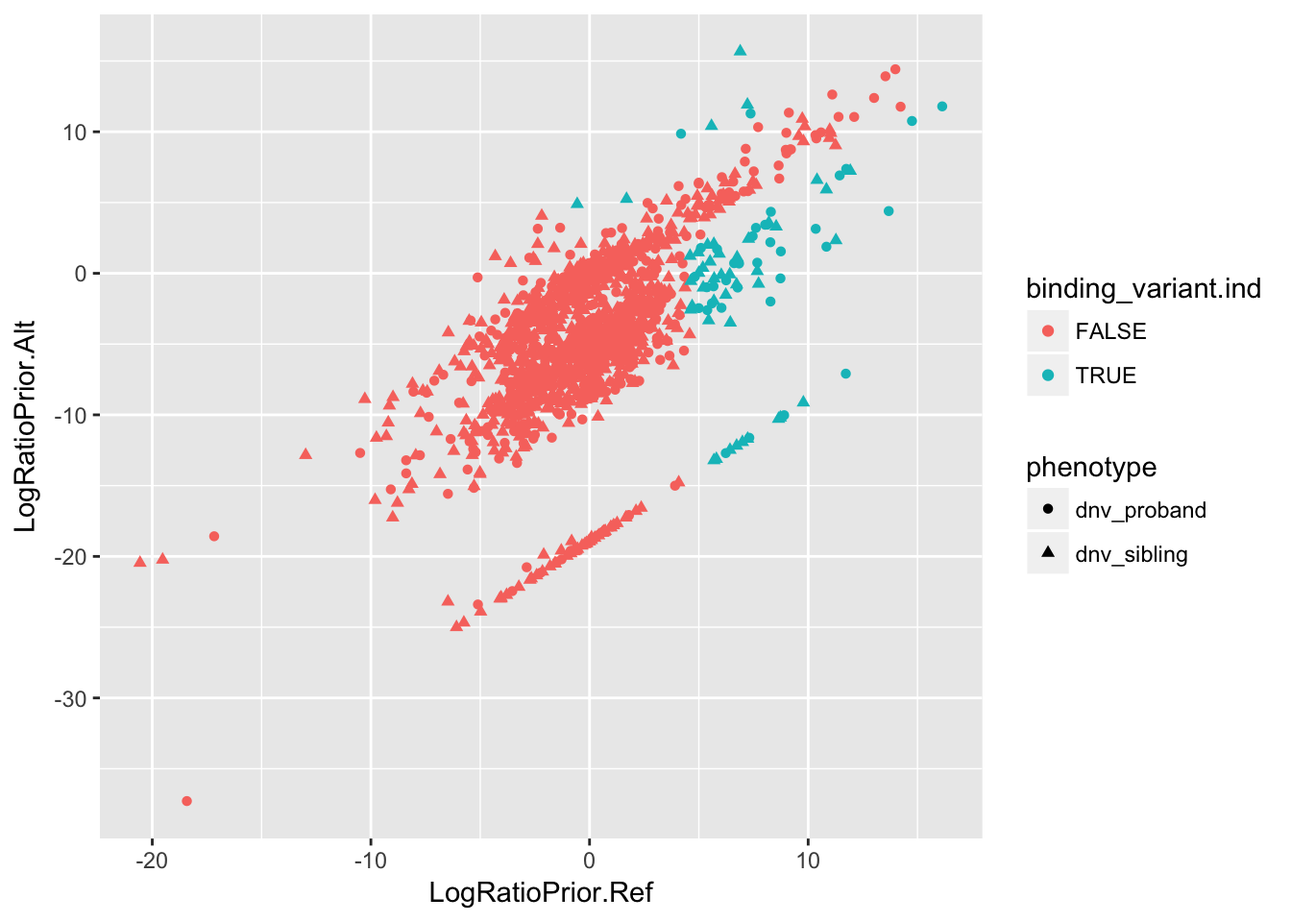
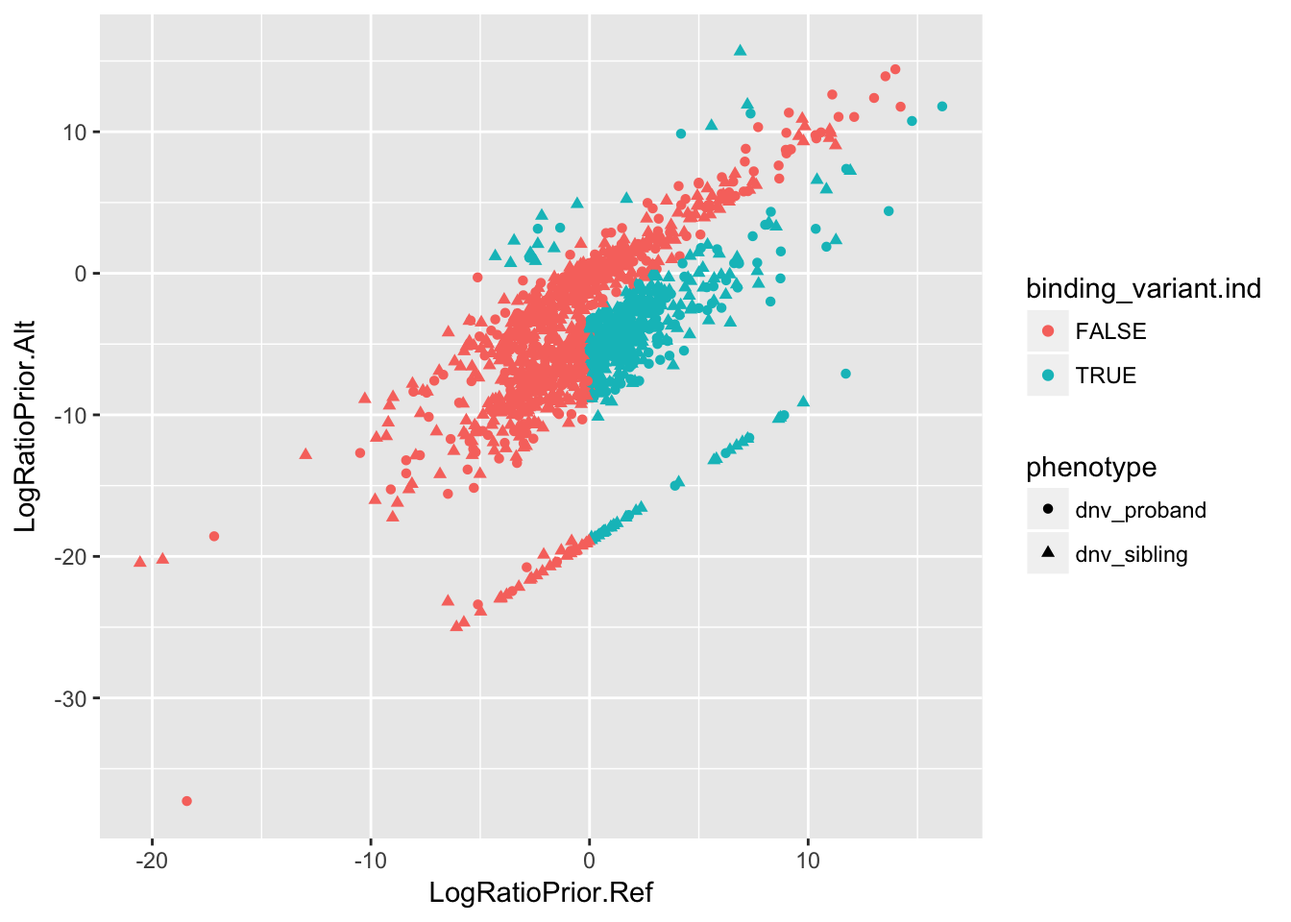
updated

diff --git a/docs/footprint_snp_strategy1.html b/docs/footprint_snp_strategy1.html
@@ -361,7 +361,7 @@ pre code, pre, code {
 <pre class="r"><code>mydata.ag &lt;- c()
 for(i in unique(mydata$SNP.ID)){
     temp &lt;- mydata[mydata$SNP.ID == i,]
-    bind_prior &lt;- pmax(temp$LogRatioPrior.Ref, temp$LogRatioPrior.Alt) &gt; log(0.99/0.01)
+    bind_prior &lt;- pmax(temp$LogRatioPrior.Ref, temp$LogRatioPrior.Alt) &gt; log(0.5/0.5)
     fold_change &lt;- abs(temp$LogRatioPrior.Ref - temp$LogRatioPrior.Alt) &gt; log(20)
     both &lt;- sum(bind_prior &amp; fold_change)
     if(both == 0){
@@ -421,15 +421,15 @@ pander(test_result)</code></pre>
 <tbody>
 <tr class="odd">
 <td align="center"><strong>binding.variant</strong></td>
-<td align="center">36</td>
-<td align="center">44</td>
-<td align="center">0.274</td>
+<td align="center">210</td>
+<td align="center">349</td>
+<td align="center">0.9593</td>
 </tr>
 <tr class="even">
 <td align="center"><strong>footprint.snp</strong></td>
-<td align="center">495</td>
-<td align="center">852</td>
-<td align="center">0.9995</td>
+<td align="center">321</td>
+<td align="center">547</td>
+<td align="center">0.9939</td>
 </tr>
 </tbody>
 </table>
@@ -440,92 +440,264 @@ pander(test_result)</code></pre>
 <h2>Proband</h2>
 <pre class="r"><code>cols &lt;- c(&#39;SNP.ID&#39;,&#39;Motif.ID&#39;, &#39;Relative.Pos&#39;, &#39;entropy&#39;, &#39;ref&#39;, &#39;alt&#39;, &#39;LogRatioPrior.Ref&#39;, &#39;LogRatioPrior.Alt&#39;)
 mydata.ag[mydata.ag$binding_variant.ind &amp; mydata.ag$phenotype == &#39;dnv_proband&#39;, cols]</code></pre>
-<pre><code>##      SNP.ID Motif.ID Relative.Pos   entropy ref alt LogRatioPrior.Ref LogRatioPrior.Alt
-## 30     1355   M00084           28 1.8771639   C   T          6.034927        -2.4385871
-## 56     3603   M01714           12 1.7461780   C   T          5.671023        -0.9201730
-## 143    9218   M00084           21 0.8689223   G   C          4.183780         9.8614439
-## 194   12261   M00084           21 0.8689223   A   G          7.366078        11.2888553
-## 203   13385   M01925           21 1.9582373   G   A          6.774377        -1.0061039
-## 237   14283   M00084           25 1.5871104   G   A          4.996710        -2.4600265
-## 251   14881   M01509           16 1.5343766   G   A          7.611410         3.2110777
-## 9226  17685   M00807            2 1.6670044   G   A          8.270070         2.1939433
-## 288   18010   M00797            5 0.5165080   G   A          4.816206        -0.2390860
-## 345   20506   M00280            7 1.9400879   G   A          5.597880        -2.1251344
-## 6355   4139   M01961            7 1.9881729   C   G          6.231948       -12.7022057
-## 3210   9149   M01303            6 1.9999359   C   T          7.307715       -11.6192220
-## 1190  11320  PBM0203           15 1.8111229   G   A          6.613514         0.7139703
-## 1269  14685   M01068            9 1.9405353   G   A         10.834427         1.8792256
-## 3376  16768   M01303            8 1.5985656   G   A         14.748282        10.7620738
-## 3379  17077   M01303            6 1.9999359   C   A          8.902000       -10.0249373
-## 2089   1573   M01118           11 1.9243168   C   T          8.733199        -0.3576012
-## 2162   7501   M00766           17 1.2845076   G   A          5.834107         1.7018385
-## 3034   1514   M01335            5 0.8814204   T   A          8.031602         3.4294305
-## 3061   2093   M01303           13 1.4433938   C   G         11.440425         6.9144941
-## 3079   3404   M01532           39 0.7247598   A   G         16.131375        11.7933100
-## 3086   3960   M01122            9 1.1532701   C   A          8.293577         4.3463969
-## 7602   4789   M01219            7 0.9358663   G   A          7.462182         2.6228604
-## 3232  10322   M00008            6 1.8103056   G   A          6.839688         0.6913610
-## 3242  10886   M01068           14 1.8937655   G   A          7.671307         0.7505114
-## 3261  11879   M00404            8 1.8474190   T   G          6.247738        -0.4962465
-## 3315  14071   M00451           30 1.6452066   A   G          8.128684         3.4388537
-## 3383  17227   M01597           11 1.9360126   G   C          8.276714        -1.9925463
-## 3408  18436   M01118           11 1.9243168   C   G          5.386178        -2.6008755
-## 3413  18969   M00451           24 1.4826539   A   G         11.741829         7.3786814
-## 7492   1313   M01837           10 0.8692086   T   A          5.360720        -0.9848862
-## 7502   1498   M01504            9 1.4060160   T   C          8.750713         1.5478762
-## 7547   2597   M01504            9 1.4060160   A   G         10.346013         3.1431760
-## 7599   4689   M01504           11 1.8477507   T   G         13.684103         4.3974496
-## 7728   9652   M00078           17 0.8920722   A   C          5.094875         1.7932938
-## 7925  19093   M01532           33 1.5969361   A   T         11.722000        -7.0900685</code></pre>
+<pre><code>##       SNP.ID Motif.ID Relative.Pos   entropy ref alt LogRatioPrior.Ref LogRatioPrior.Alt
+## 2999       3   M00008            2 1.8547063   G   T       3.904934527       -3.60183348
+## 4         92   M01948            6 1.5400790   C   G       2.271950698       -4.26530033
+## 6        215  PBM0105           14 1.1974766   C   T       1.074457050       -3.25840529
+## 11       415   M00940            9 1.6389136   G   A       2.432171754       -2.46090454
+## 12       539   M01620            3 1.6529836   C   T       0.920390095       -3.64463566
+## 4278     575   M01958            3 1.6908259   T   A       0.245728943       -8.10140005
+## 4285     576   M01958            4 1.9852075   C   A       0.245728943      -18.68507783
+## 25      1166   M00920            6 1.6484992   C   T       3.014032795       -2.58188463
+## 3028    1347   M00939            7 1.6873117   C   T       0.545454359       -4.43305748
+## 30      1355   M00084           28 1.8771639   C   T       6.034927400       -2.43858713
+## 32      1517   M01620            2 1.5883750   G   A       0.920390095       -3.28231011
+## 38      1898   M00032            2 1.6876641   A   G       1.050878845       -3.55156652
+## 1078    2232   M00920            4 0.7143480   G   A       3.505724978       -1.45014761
+## 7550    2694   M00106            6 1.7249764   G   A       0.849335048       -4.92590844
+## 53      3235   M01634            7 1.9833993   G   C       1.873775782       -7.47153313
+## 56      3603   M01714           12 1.7461780   C   T       5.671022506       -0.92017296
+## 75      4587   M00065           12 1.9677110   C   A       0.171981829       -8.05125711
+## 76      4651   M01613            3 1.4903221   G   A       0.086115597       -4.25651260
+## 84      5426   M01620            5 1.5458622   A   G       0.920390095       -3.75940490
+## 85      5835   M01635            8 1.5336647   C   T       0.799490548       -3.81021030
+## 4378    6628 MA0048.1           10 0.9842440   C   A       0.361098854       -7.88729491
+## 94      6851   M00918            3 1.7441102   A   G       2.127590764       -3.86819007
+## 3132    6873   M01917           10 1.7106621   T   C       0.519089302       -4.55787501
+## 99      6996   M01259           26 0.9449232   G   C       3.657230992       -5.81699938
+## 102     7298   M00654            6 1.2369149   G   A       3.144355058       -2.10513146
+## 105     7481   M00694            9 1.9338709   G   C       1.238474518       -5.74588624
+## 106     7571   M01544           10 1.4975287   C   T       1.183762053       -3.97526245
+## 3185    8324   M00920            3 0.3738250   G   A       1.760017285       -2.80401838
+## 111     8338   M00973            8 0.9906366   G   C       1.022859379       -5.51731741
+## 113     8402   M01962            3 0.8148487   C   T       3.261506321       -1.75455704
+## 3190    8416   M00008           11 0.6297062   T   G       2.873668419       -2.12088677
+## 117     8458   M01700            6 1.6868658   G   C       0.972313756       -5.61238976
+## 119     8743   M00740            7 1.6237796   G   A       0.875174372       -3.77643278
+## 143     9218   M00084           21 0.8689223   G   C       4.183780385        9.86144390
+## 148     9495   M01700            5 1.5280561   T   C       1.334042381       -5.42713752
+## 155    10579 MA0100.1            6 1.5370451   G   A       1.246692046       -3.49346335
+## 1180   10945   M01966            6 1.8713435   C   T       2.139588321       -3.64911349
+## 163    11269   M02011            8 1.6705455   C   T       3.511938825       -1.73137992
+## 166    11382   M00084           28 1.8771639   G   A       1.834131579       -6.63938295
+## 175    11522   M01909            5 1.7448755   C   T       0.169704003       -4.81445882
+## 178    11541   M00514            3 0.5745764   C   T       1.776869760       -4.39249908
+## 193    12169   M01610            3 1.7009062   G   A       1.661664803       -4.30407115
+## 194    12261   M00084           21 0.8689223   A   G       7.366078345       11.28885527
+## 197    12636   M00084           28 1.8771639   G   C       0.718514725       -7.75499980
+## 200    13078   M02011            9 1.0122430   C   T       2.696449523       -5.59180262
+## 201    13115   M01742            5 1.7958965   C   T       3.256175301       -1.83723848
+## 203    13385   M01925           21 1.9582373   G   A       6.774377399       -1.00610390
+## 205    13453   M00696            5 1.9008127   T   C       1.099948651       -5.57287791
+## 224    13641   M00178            5 1.9438236   A   G       1.701079710       -6.03385888
+## 234    13985   M01948            6 1.5400790   G   A       2.190745926       -2.00367474
+## 237    14283   M00084           25 1.5871104   G   A       4.996709757       -2.46002650
+## 240    14297   M00375            7 1.8881747   G   C       0.762052648       -8.36005046
+## 241    14351   M01639            5 1.7247818   G   A       1.452007580       -3.65299773
+## 244    14513   M01992            4 1.7486101   C   T       2.737168755       -3.66914840
+## 1272   14881   M01629            9 1.6831951   G   A       2.705732299       -2.44552657
+## 2272   14941   M01634            6 1.7542856   G   A       1.042045746       -4.82900181
+## 254    15306   M01182            6 1.6849318   C   T       1.001808843       -4.79874229
+## 264    15831   M01610            6 1.9055889   T   C       0.804049647       -5.54934587
+## 265    15954   M01620            2 1.5883750   G   A       0.403903255       -3.79879695
+## 274    17281   M02011            3 0.8984842   G   A       3.186908067       -2.60158817
+## 275    17351   M01916            4 1.7967726   C   G       1.889391526       -5.89549974
+## 6604   17685   M01961            9 1.7648724   G   A       2.100965743       -6.14162903
+## 289    18010   M01182            4 1.8693197   G   A       1.526152167       -5.56770814
+## 291    18133   M00778            6 1.4375781   C   G       1.785082401       -3.85485320
+## 294    18568   M01639            6 1.5543703   G   C       1.757789516       -3.68915088
+## 3411   18585   M00322            2 1.6220678   G   A       0.559691009       -4.74862711
+## 299    19004   M00281            3 1.4356691   G   T       1.365437972       -7.48674820
+## 310    19196 MA0004.1            6 1.9999359   T   C       0.672271169      -18.26337956
+## 321    19204   M00428            8 1.5928724   C   T       0.872744278       -4.49713668
+## 326    19508   M01636            5 1.6336137   G   A       0.632175857       -4.17381250
+## 327    19530   M01620            2 1.5883750   C   T       0.920390095       -3.28231011
+## 2343   19862   M00916            8 1.7434218   C   G       0.620636374      -18.25135017
+## 3451   20158  PBM0023           11 1.6037614   C   T       4.336419878       -0.23306149
+## 341    20273   M01699            5 1.8611434   G   A       0.419795593       -8.31975596
+## 345    20506   M00280            7 1.9400879   G   A       5.597880224       -2.12513437
+## 1075    2025   M01951            6 1.6914711   C   T       1.099764809       -4.07265612
+## 1085    2860   M00270            7 1.1686189   C   T       0.347613807       -3.50708122
+## 1087    3426   M00041            5 1.9417858   G   A       2.271974478       -7.59511894
+## 6355    4139   M01961            7 1.9881729   C   G       6.231948016      -12.70220568
+## 3149    7141   M01843            7 1.6016491   C   T       1.173643335       -3.36116123
+## 1152    8580  PBM0203           13 1.7928550   C   T       3.723994972       -1.45988261
+## 3210    9149   M01303            6 1.9999359   C   T       7.307715213      -11.61922196
+## 1177   10369   M00263            6 1.6671729   C   T       0.499291554       -5.15499493
+## 1190   11320  PBM0203           15 1.8111229   G   A       6.613514096        0.71397028
+## 1217   12228   M00752            8 0.9542194   C   T       0.460688643       -6.70706141
+## 1219   12265   M00752            6 1.8129358   C   T       0.698521101       -5.63850267
+## 1220   12287   M01839            4 1.9238942   C   T       3.231939888       -6.11496829
+## 1269   14685   M01068            9 1.9405353   G   A      10.834427187        1.87922559
+## 3376   16768   M01303            8 1.5985656   G   A      14.748281710       10.76207382
+## 3379   17077   M01303            6 1.9999359   C   A       8.901999853      -10.02493732
+## 1302   17097   M01962            9 1.5894463   G   A       2.305017980       -2.73634719
+## 7917   18574   M00986            3 1.9872578   C   T       4.319829556       -5.46328397
+## 1356   19452   M00263            5 1.5983625   G   A       0.575600209       -4.65198687
+## 1360   19702   M01962            9 1.5894463   C   T       3.261506321       -1.77985885
+## 1361   19703   M01620            3 1.6529836   C   T       0.403903255       -4.16112250
+## 10290  19770   M01639            3 1.7230140   A   T       1.452007580       -5.28613529
+## 2089    1573   M01118           11 1.9243168   C   T       8.733199477       -0.35760118
+## 7561    3291   M00050            7 1.7493308   C   T       1.117650979       -4.16911602
+## 2128    4693   M00694            2 0.7954746   C   T       2.202009465       -2.45806816
+## 2162    7501   M00766           17 1.2845076   G   A       5.834107077        1.70183846
+## 2197    9449  PBM0095            9 1.9270336   C   T       3.106193495       -4.99194711
+## 2203    9670 MA0119.1            4 1.9807962   G   A       2.713781554       -6.38901295
+## 2214   10605   M01634            6 1.7542856   G   C       1.991528790       -6.31036716
+## 2225   11543   M00666           10 1.8117256   A   T       0.966035828       -7.66215374
+## 2254   14051   M01162            5 1.7385343   A   C       1.795803293      -17.07454907
+## 2278   15792   M01639            6 1.5543703   G   A       0.846086791       -3.77887068
+## 2290   16165   M01511            3 1.1546936   G   A       2.953528988       -0.07123798
+## 3359   16182   M01699            5 1.8611434   G   A       0.419795593       -8.31975596
+## 2324   19150   M01924            7 1.6279479   C   A       3.081515771       -4.56932746
+## 2336   19509 MA0093.1            5 1.8465935   C   T       0.305305439       -5.56035064
+## 2352   20234   M00615           14 1.9999359   C   T       1.024611251      -17.90232592
+## 3003     218   M01840            3 1.5151884   G   A      -1.343961099        3.21917482
+## 3009     650   M00263            6 1.6671729   G   A       0.009995807       -5.64429068
+## 3034    1514   M01335            5 0.8814204   T   A       8.031601634        3.42943053
+## 3038    1549   M01951            3 1.8101627   C   T       0.665999180       -5.04525100
+## 12269   2093   M00491           11 1.8493940   C   G       3.197801501       -3.75947558
+## 3079    3404   M01532           39 0.7247598   A   G      16.131375078       11.79331001
+## 3086    3960   M01122            9 1.1532701   C   A       8.293577081        4.34639687
+## 7602    4789   M01219            7 0.9358663   G   A       7.462182271        2.62286039
+## 4369    5644   M00178            6 1.9036959   G   A       0.672843489       -6.50734345
+## 3116    5718   M01610            8 1.6536510   G   A       0.946561195       -3.24734876
+## 3118    5753   M00064           11 1.3413192   C   T       2.913993566       -2.57064554
+## 3120    5931   M01162            3 1.9456752   T   G       1.795803293      -17.13089472
+## 3134    6914   M00649            2 1.7909103   G   A       3.045992144       -3.22645162
+## 3180    7677   M01815            8 1.5951259   G   A       1.422631207       -2.85089724
+##  [ reached getOption(&quot;max.print&quot;) -- omitted 85 rows ]</code></pre>
 </div>
 <div id="sibling" class="section level2">
 <h2>Sibling</h2>
 <pre class="r"><code>mydata.ag[mydata.ag$binding_variant.ind &amp; mydata.ag$phenotype == &#39;dnv_sibling&#39;, cols]</code></pre>
 <pre><code>##       SNP.ID Motif.ID Relative.Pos   entropy ref alt LogRatioPrior.Ref LogRatioPrior.Alt
-## 351    20979   M01714            5 0.4630280   G   A         5.3972527        2.00853666
-## 1467   24541   M01068           12 1.9639209   C   A         8.7263856      -10.19505921
-## 462    25101   M01175           10 1.8230149   C   A         5.6884407      -13.21316114
-## 473    25238   M00084           28 1.8771639   G   A         7.7309105       -0.74260401
-## 5848   26862   M00244            6 1.7464740   A   G        -0.5643192        4.88896990
-## 531    27230   M00084           22 1.1181328   C   G         8.5363565        3.29979736
-## 1616   30714 MA0162.1            5 1.8737468   C   T         6.7292694      -12.18480984
-## 611    31352   M01925           22 1.9380524   C   T         6.8924844       15.66934696
-## 8779   44583   M01118            3 1.9361772   G   A         5.8024781      -13.11939394
-## 10942  46710   M01820            2 1.4564349   C   T         1.6920131        5.24842472
-## 1408   21650   M01068            8 1.9361285   C   T        11.2694179        2.33235766
-## 1554   27038   M01068            3 1.0236657   C   G        10.4044718        6.59315137
-## 1565   28448   M00114           12 1.4894717   C   T         5.1839671        0.37874094
-## 9534   30569   M01925           22 1.9380524   T   C         5.4499417       -3.32692084
-## 1738   35116   M01068            3 1.0236657   G   A        10.8344272        5.91868201
-## 3959   36228   M01597            6 1.9999359   G   A         8.6449153      -10.28782915
-## 11442  22374   M01564           11 1.4287563   G   A         4.9686300        1.47350103
-## 3572   23706   M00451           28 1.7027981   G   A        11.9266853        7.23450248
-## 3601   24633   M00008            6 1.8103056   C   T         6.0256391       -0.12268794
-## 8158   25158  PBM0203            9 1.2627148   C   T         5.6868853        2.06765993
-## 3654   25801   M01104            8 1.8823280   G   A         6.4246924      -12.47778534
-## 6856   26395   M01961            8 1.6581801   C   G         6.2319480       -1.52381533
-## 3706   28067   M01737            7 1.5454389   A   G         5.9336054        1.38047570
-## 3707   28250   M01219            6 1.8996402   C   T         7.6723014        0.15009043
-## 3727   29114   M01068            7 1.9575122   C   G         6.9929989      -11.92802334
-## 3736   29461   M00451           30 1.6452066   G   A         7.2218366       11.91166657
-## 3776   30620   M01303            6 1.9999359   G   T         7.2316086      -11.69532858
-## 3857   33242   M01068           15 0.6675571   T   C         5.5775884       10.40447180
-## 4091   38827   M01104            3 1.5658410   G   A         4.6312696       -0.54686068
-## 4148   41701   M01175           10 1.8230149   G   C         5.6884407       -1.95770099
-## 4166   42394   M01219            7 0.9358663   G   A         7.2710774        2.43175556
-## 4170   42561   M01118            9 1.8782834   G   A         5.1992335       -1.01434411
-## 4201   44121   M01256           18 0.5929753   C   A         4.5989786        1.22788163
-## 4229   45941   M01303           12 1.9199620   G   A         9.7801384       -9.13247926
-## 5353   46911   M00451           28 1.7027981   C   T         5.5138801        0.82169723
-## 5854   27900   M01961            6 1.9882944   G   A         6.4388522       -3.48964764
-## 8053   23023   M01124           16 1.1631984   A   G         5.7004862       -0.37419550
-## 8100   24552   M00008            2 1.8547063   C   T         6.7255627       -0.79034088
-## 8347   30856   M01593            2 0.8084927   C   T         8.2008392        3.56976522
-## 8421   32796   M00321           18 0.8307730   G   T         6.7495294        1.12254233
-## 8615   38341   M01219           11 1.7984264   C   A         6.4137547       -0.07949471
-## 8818   46402   M01219           12 1.7796207   C   A         4.6237097       -2.56895954
-## 9888   43919   M00717            3 1.1676382   A   G         4.9978034        0.02782553
-## 14710  31084   M01714            9 1.8125349   C   A         4.6931249       -2.32452541</code></pre>
+## 351    20979   M01714            5 0.4630280   G   A       5.397252746        2.00853666
+## 357    21184   M01820           10 0.6054744   G   A       4.169804327       -2.25357435
+## 5704   21269   M01114            2 0.4420999   G   C       0.333471571       -4.03482372
+## 8008   21394   M01699            5 1.8611434   G   A       0.380340749       -8.35921080
+## 370    22160 MA0018.2            6 1.9373639   G   A       0.590358863      -18.33256518
+## 379    22298   M00739            8 1.4532661   G   A       2.700840777       -1.92522826
+## 382    22614 MA0007.1            6 1.6128350   G   C       0.369895992       -7.66005187
+## 399    23092   M01610            9 1.7805757   A   G       1.661664803       -4.68639643
+## 408    23660   M01660            7 1.7718871   C   T       2.023278879       -4.73751755
+## 421    24064   M01839            4 1.9238942   G   C       1.937691081       -6.38544273
+## 426    24475   M01002           10 1.0135533   C   T       2.823644234       -0.87110432
+## 1467   24541   M01068           12 1.9639209   C   A       8.726385639      -10.19505921
+## 450    24798   M00799            4 1.8191079   G   A       0.210124625       -5.27235088
+## 462    25101   M01175           10 1.8230149   C   A       5.688440712      -13.21316114
+## 465    25197   M02011           10 1.7606276   C   G       1.428890473       -4.96272637
+## 472    25215   M01700            5 1.5280561   A   G       0.972313756       -5.78886615
+## 473    25238   M00084           28 1.8771639   G   A       7.730910512       -0.74260401
+## 480    25574   M02011            4 0.9091180   C   T       2.979463584       -2.35569787
+## 486    25588   M00303           11 1.6003465   C   T      -2.707345230        1.42988220
+## 8171   25725 MA0057.1            5 1.9024510   C   G       0.923271662       -7.69672601
+## 489    25782   M01700            6 1.6868658   G   A       0.610585130       -4.28325757
+## 8192   26167   M01516            9 1.8167847   C   T       3.289361621       -2.27186819
+## 501    26302   M00986            5 1.9631813   G   A       2.076583710       -7.64667817
+## 502    26462   M00491           11 1.8493940   C   A       1.420530909       -6.53867394
+## 3677   26796   M01852            5 1.4964682   C   T       0.477494190       -3.18454452
+## 5848   26862   M00244            6 1.7464740   A   G      -0.564319247        4.88896990
+## 2529   27162  PBM0085           11 1.6390400   C   T       3.429858004       -1.25192715
+## 531    27230   M00084           22 1.1181328   C   G       8.536356547        3.29979736
+## 545    28480   M01681            3 1.7367584   G   A       0.486273731       -5.53994659
+## 548    28744   M01649            7 1.6085919   C   T       2.165605875       -2.48743329
+## 550    28793   M01636            2 1.7448648   C   T       1.264769522       -4.62444823
+## 1576   28853   M01629           10 1.5227733   G   A       2.784371876       -2.06982194
+## 3725   29024   M00322            7 1.8140017   G   C       2.148894337       -4.89290550
+## 563    29187   M01610            7 1.4776106   T   C      -3.612136061        0.71874717
+## 564    29236   M01610            7 1.4776106   G   A       1.661664803       -2.66921843
+## 566    29303   M01700            6 1.6868658   C   A       1.334042381       -7.05480157
+## 568    29416   M00008            8 1.8979354   G   A       3.523145206       -4.73628897
+## 569    29737   M00797            5 0.5165080   G   A       3.006963153       -2.04832867
+## 570    29739   M02040            7 1.7979475   G   A      -4.312773323        1.20337875
+## 571    29896 MA0059.1            4 0.6706922   G   A       2.139361543       -0.86806002
+## 2563   30063   M01925           26 1.7805112   C   T       2.326240542       -3.29000241
+## 10520  30065 MA0028.1            5 1.7453951   C   A       1.906634114       -4.13245520
+## 579    30133   M00001           13 1.1349365   C   T       0.804134749       -2.53025708
+## 580    30274   M00696            5 1.9008127   A   C       1.262226971       -7.70412314
+## 8330   30389   M00050            8 1.6376092   G   C       1.589722662       -5.58029672
+## 1616   30714 MA0162.1            5 1.8737468   C   T       6.729269430      -12.18480984
+## 592    30744  PBM0079            3 1.2469604   C   A       2.719462455       -2.30273006
+## 595    30801   M01681            2 1.5534993   G   A       0.044243184       -5.27472497
+## 597    30934   M00940            3 1.6672371   T   A       4.079050660      -14.77986091
+## 601    30996   M01613            3 1.4903221   G   C       0.009580789       -5.17460202
+## 605    31050   M01639            3 1.7230140   T   A       0.846086791       -5.89205608
+## 611    31352   M01925           22 1.9380524   C   T       6.892484405       15.66934696
+## 614    31354 MA0006.1            3 1.8211156   G   A       0.083563328       -6.43530951
+## 615    31434   M01840            6 1.0986028   A   G      -2.186000006        4.05956633
+## 616    31463   M00694           10 1.7339782   T   G       1.706466769       -5.29347736
+## 617    31478 MA0004.1            6 1.9999359   A   C       0.720295075      -18.21535565
+## 631    31641   M01958            5 1.7871205   C   T       0.143872664       -5.32932829
+## 637    31925   M00696            5 1.9008127   T   C       1.099948651       -5.57287791
+## 643    32283   M01649            7 1.6085919   C   T       1.622578029       -3.03046114
+## 9590   32330   M01925           26 1.7805112   C   T       0.960963314       -4.65527963
+## 647    32415  PBM0104           12 1.6007188   G   A       1.569025989       -4.69680278
+## 650    32503   M01933            9 1.4073608   T   C       1.837381216       -1.80201260
+## 655    32696   M00797            2 1.0318621   C   T       3.283594131       -1.12524205
+## 659    32798   M01509            4 1.2999744   C   A       0.998552108       -5.55491442
+## 665    33271   M01649            2 1.3924307   C   G       2.975273372       -2.58561438
+## 682    33998 MA0004.1            7 1.9999359   G   C       0.672271169      -18.26337956
+## 698    34663   M02011            7 1.5687348   C   T       3.186908067       -1.89074679
+## 699    34807   M00697            3 0.6728807   C   T      -2.568708875        1.06911225
+## 700    34812   M00375            6 1.7925935   C   T       0.772742798       -4.85029083
+## 703    34940   M00428            7 1.6800499   C   T       0.782524645       -4.83362459
+## 704    34974   M01700            3 1.9999359   G   A       0.241390902      -18.69425983
+## 705    35045   M01607            3 1.8033302   A   G       1.616177901       -3.64395732
+## 707    35055   M00428            5 0.8655381   C   T       1.568009618       -3.87405365
+## 2691   35088 MA0119.1            7 1.0863280   A   G       3.741964788       -3.70109016
+## 713    35308   M00696            7 1.9107079   A   G       1.262226971       -6.12782409
+## 716    35361   M00654           10 1.1235464   C   T       1.834530019       -1.99927964
+## 717    35422   M01700            4 1.6015170   C   T       0.241390902       -5.08224062
+## 719    35534   M01182            3 1.5462553   G   A       1.001808843       -3.29232638
+## 722    35697   M01620            3 1.6529836   C   T       0.920390095       -3.64463566
+## 737    36032   M01962            9 1.5894463   C   T       2.677829162       -2.36353601
+## 741    36211   M00940            8 1.7075353   G   A       2.143656324       -2.67651303
+## 11873  36323  PBM0118            5 1.7223254   G   A       0.569409408       -7.40248571
+## 764    36451   M01673            6 1.6057094   G   T       0.525406036       -4.92601762
+## 767    36609   M01620            2 1.5883750   C   T       0.089574012       -4.11312619
+## 768    36652 MA0059.1            8 1.6404862   C   T       1.252583520       -3.46651858
+## 2760   37165   M01818            9 1.2592240   C   T       1.282458584       -2.80869071
+## 804    37791   M01648            5 1.8803413   G   A       0.311801455       -6.67540966
+## 812    38007   M01259           25 1.3720806   G   A       1.813055212       -2.70721105
+## 7221   38277   M01959            6 1.7752191   T   C       0.722147727       -5.44480178
+## 834    38380 MA0018.2            6 1.9373639   C   T       1.662679205      -17.26024484
+## 859    38550   M00697            4 0.7433201   G   C       1.651708762       -2.60829148
+## 862    38564 MA0117.1            8 1.5566592   G   A       1.334145862       -2.99642207
+## 864    38746   M01220            4 0.8395244   A   T       2.231546923       -2.60655853
+## 866    39132   M00697           11 1.4491931   G   A       0.960999486       -3.14338467
+## 874    40012   M01700            4 1.6015170   G   C       0.241390902       -5.33512851
+## 876    40133   M01613            7 1.8267406   C   G       0.136118415       -7.05008720
+## 888    40293   M00428            8 1.5928724   G   A       1.207758960       -4.16212200
+## 892    40391   M01636            5 1.6336137   G   A       0.624697886       -4.18129047
+## 893    40628   M01700            2 1.8252550   C   T       0.972313756      -17.93065577
+## 894    40636 MA0059.1           10 1.8947861   G   A       2.411935738       -4.48412554
+## 895    40769   M01613            3 1.4903221   C   T       1.168514011       -3.17411419
+## 896    40877  PBM0097            4 1.6631588   G   A       0.804750871       -4.89017929
+## 900    41312   M01852            4 1.5970799   G   A       0.126028624       -4.54634317
+## 2888   41487   M01243           13 1.7364511   G   A       2.466554033       -6.14772405
+## 4139   41650   M00008            7 1.5053237   C   T       3.090885557       -0.24291143
+## 906    41664   M01840           10 0.7020407   G   T       0.072449511       -4.24903434
+## 908    41685   M00491            5 1.4695507   G   A       4.370309006       -1.00318424
+## 911    41694   M00491           11 1.8493940   G   A       2.406952762       -5.14935269
+## 914    41779   M01111            8 1.4180792   G   C       0.463086761       -5.33787444
+## 915    41814   M01660            7 1.7718871   G   A       0.410494717       -6.35030171
+## 920    41975  PBM0113            7 1.7928895   G   A       0.936495208       -4.73390850
+## 928    42316   M00698            5 1.9687455   C   T       0.386304004      -10.13274073
+## 932    42463  PBM0103            8 1.9316558   A   C       4.578729453       -4.31648515
+## 933    42601   M01636            7 1.8130652   T   C       0.624697886       -6.01573737
+## 934    42642   M00649            3 1.8303118   G   A       1.772534096       -3.96189954
+## 935    42830   M01241            5 1.4336361   C   T       0.569503995       -3.15836457
+## 941    43534   M00428            7 1.6800499   C   T       0.759289658       -4.85685958
+## 946    43882   M02011            9 1.0122430   G   A       3.511938825       -4.77631332
+## 953    44095   M00660            7 1.7684541   G   A       0.215584661       -5.04340565
+## 962    44576   M00491           11 1.8493940   G   C       3.599295753       -3.35798133
+## 8779   44583   M01118            3 1.9361772   G   A       5.802478109      -13.11939394
+## 965    44774   M00001            2 0.6996538   G   A       2.828495181       -0.22951415
+## 967    44861   M01639            3 1.7230140   T   C       0.846086791       -5.89514523
+## 982    44986 MA0059.1            7 1.7135843   G   A       2.139361543       -2.71902689
+## 8806   45229  PBM0125            6 1.5548286   T   G       3.621673637       -0.29229528
+##  [ reached getOption(&quot;max.print&quot;) -- omitted 224 rows ]</code></pre>
 </div>
 </div>
 
